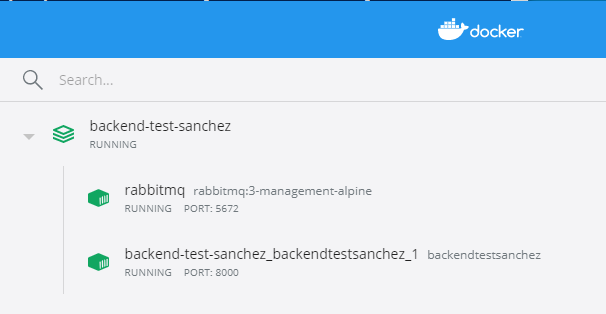
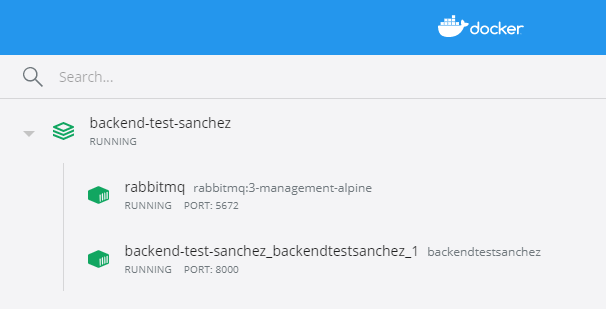
Docker-compose image cropped and readme updated

diff --git a/README.md b/README.md
@@ -103,6 +103,10 @@ python manage.py runserver
 
 - If Nora updates the menu, an automatic new message is sent via whatsapp to the employees.
 - The image for the project is on my [docker-hub](https://hub.docker.com/r/luissanchezm86/nora-awesome-menu)
-- Docker-compose with RabbitMQ is added:
+- Docker-compose with RabbitMQ is added. To run it just run the following command on the console:
+
+```
+docker-compose up
+```
 
 ![](readme-static/docker-compose-with-rabbitmq.png)
